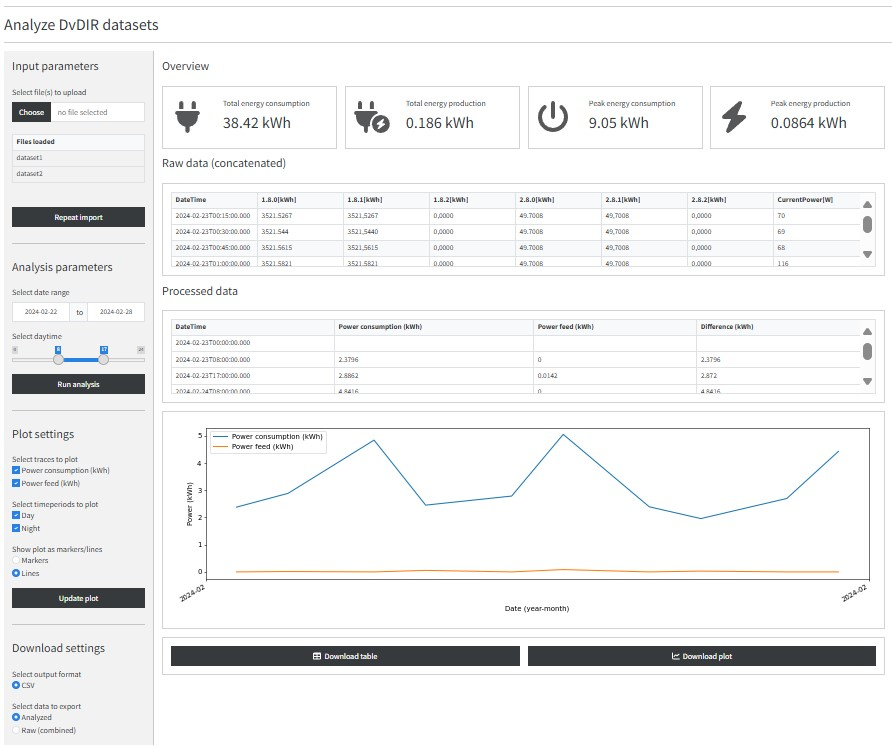
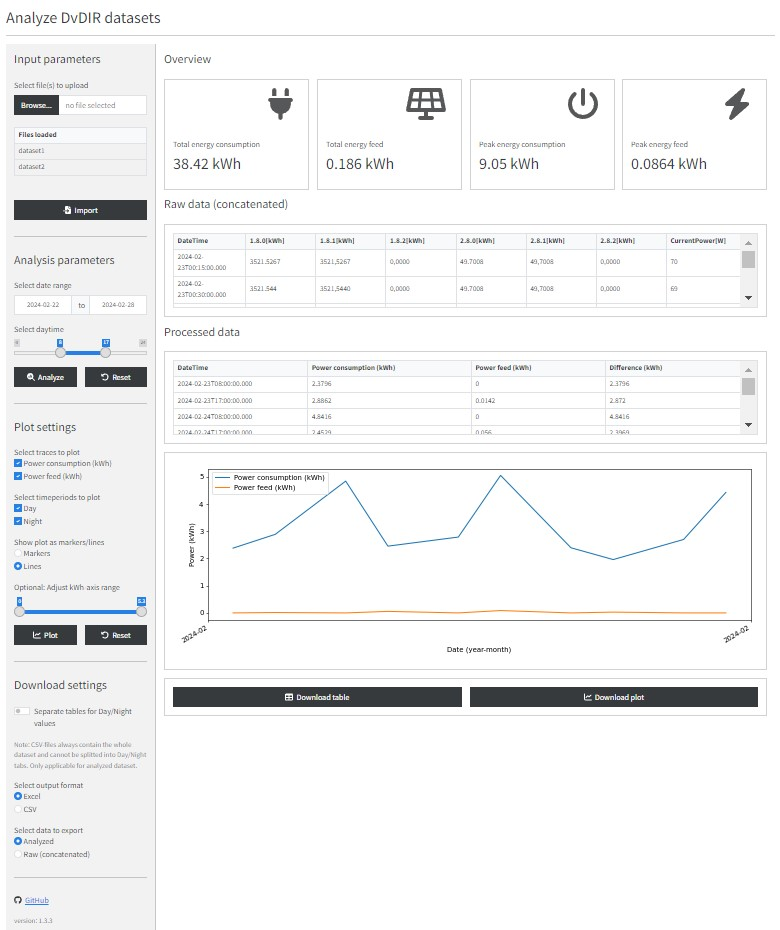
Update UI image

diff --git a/app.py b/app.py
@@ -11,7 +11,7 @@ from openpyxl.utils.dataframe import dataframe_to_rows
 import tempfile
 
 #version string
-_version = '1.3.2'
+_version = '1.3.3'
 
 #datasets for testing, stored in www/example_data
 #is loaded when Import button is pressed without specifying input files
@@ -33,14 +33,16 @@ app_ui = ui.page_fluid(
       #Sidebar
       ui.h4('Input parameters'),
       ui.input_file(
-        'files', 'Select file(s) to upload', multiple=True, accept='.csv', placeholder='no file selected', button_label='Browse'),
+        'files', 'Select file(s) to upload', multiple=True, accept='.csv', placeholder='no file selected', button_label='Browse...'),
       ui.output_data_frame('showselectedfiles'),
       ui.layout_column_wrap(
         ui.input_action_button(
           'parsefiles', 'Import', icon=icon('file-import', 'solid')),
-        ui.input_action_button(
-          'addfiles', 'Add Files', icon=icon('square-plus', 'solid')),
-        width=.5
+        # ui.input_file(
+        #   'addfiles', '', multiple=True, accept='.csv', placeholder='', button_label=ui.markdown(f"{icon('square-plus', 'solid')} Add Files"), width='100%'),
+        # ui.input_action_button(
+        #   'addfiles', 'Add Files', icon=icon('square-plus', 'solid')),
+        width=1
       ),
       
       ui.hr(),
